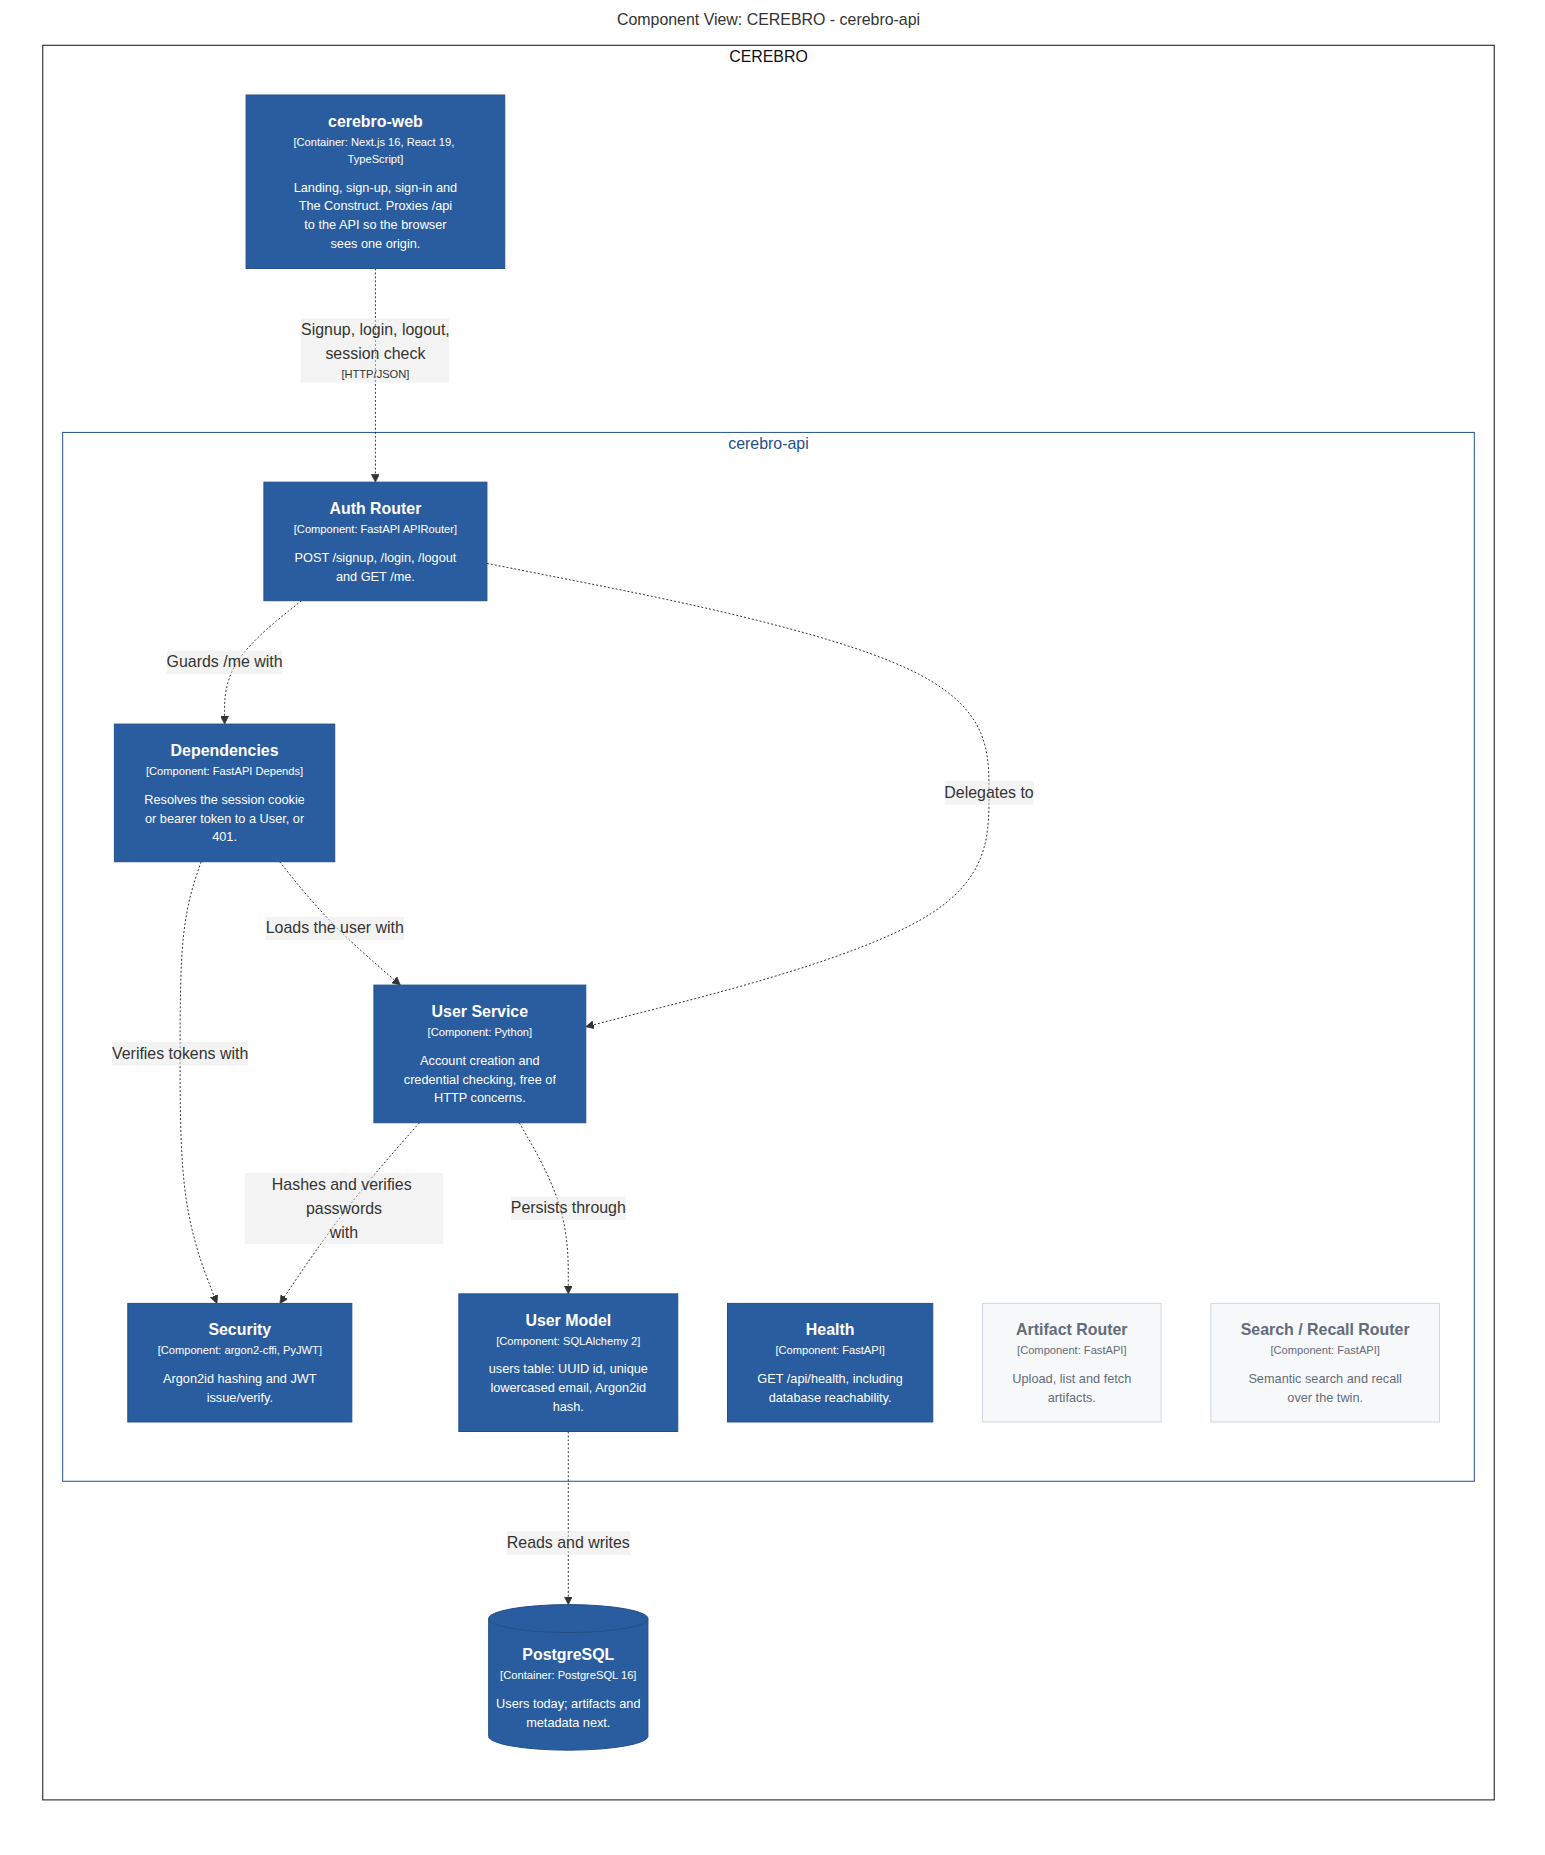
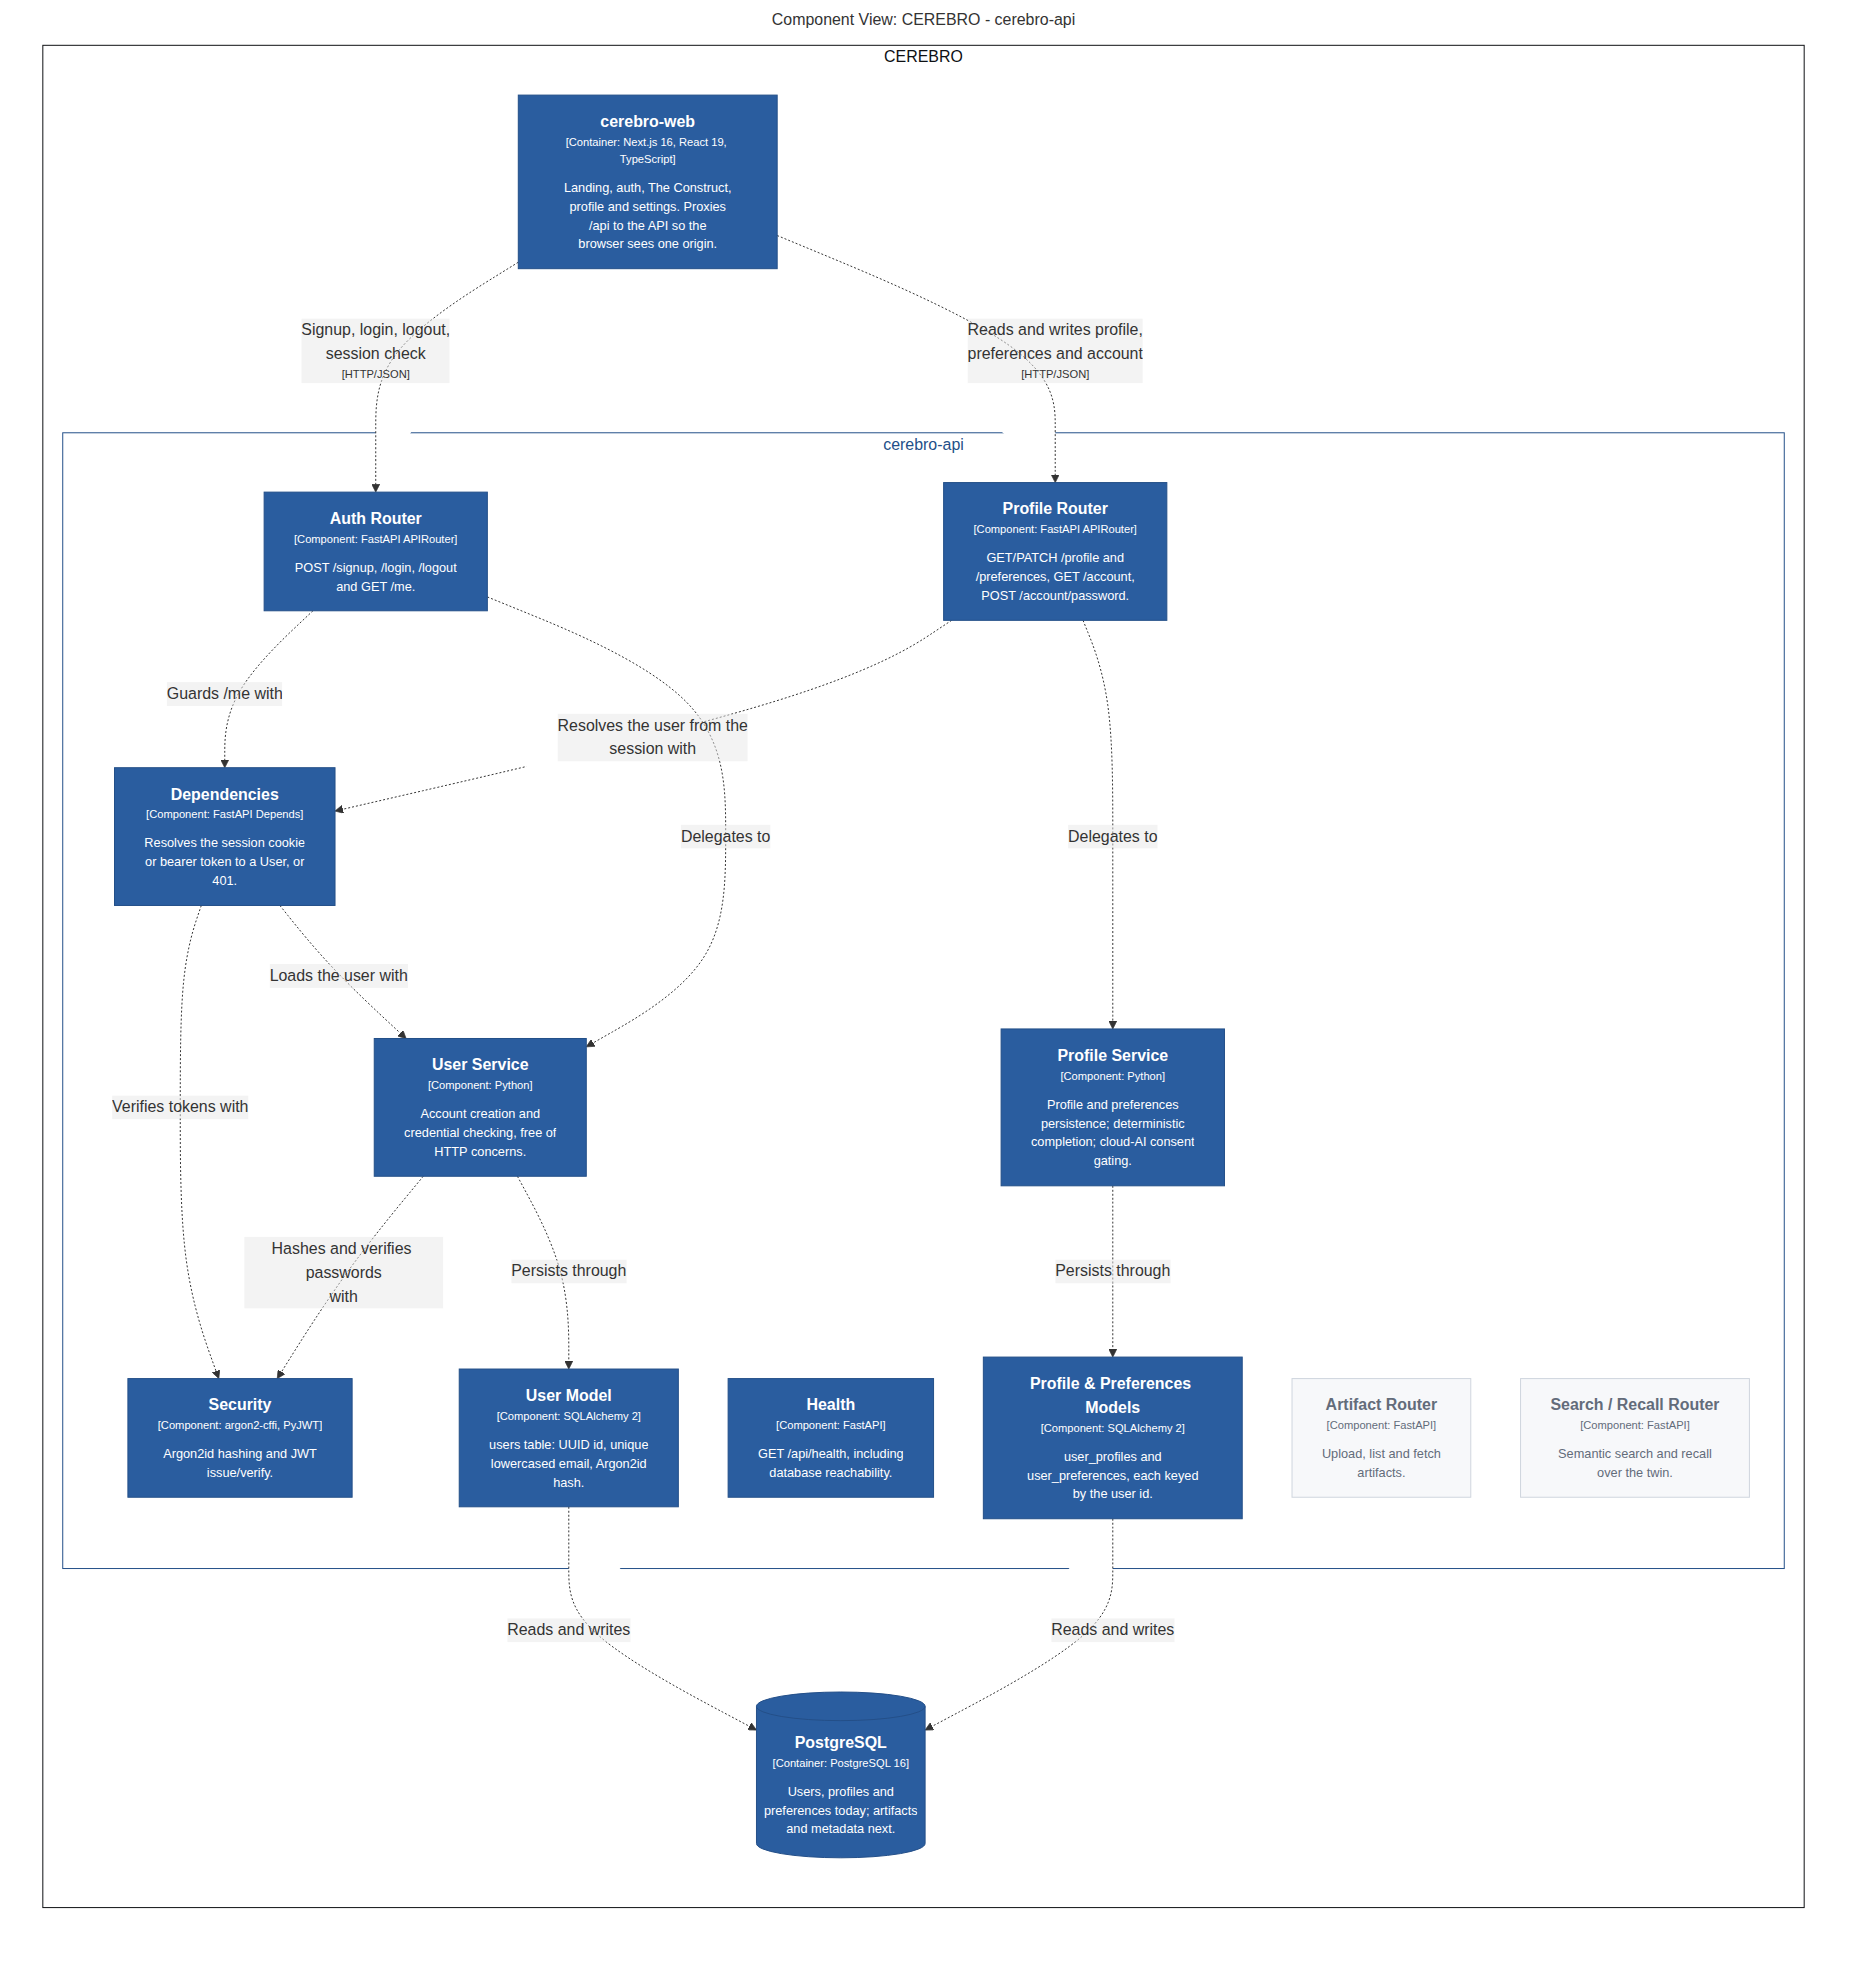
docs(architecture): bring the build state up to Phase 1.5
The C4 model described only Phase 1, so it understated what is built. Adds the
Profile Router, Profile Service and the profile/preferences models as Built
components, and updates the web, api and database descriptions. The planned
Artifact and Search routers stay pale, so the diagram still reads as progress
rather than an inventory. Validated with the Structurizr CLI and the four views
regenerated.

Corrects stale test counts in CURRENT-STATE (25/31 were the Phase 1 numbers;
the suites now stand at 55 backend and 39 end-to-end), and records that the
Phase 1.5 migration applied over an existing database of 318 users without
loss.

ROADMAP gains a Phase 1.5 section and work package 2 narrows to Artifact
Ingestion, since the profile half of it has shipped.

Claude-Session: https://claude.ai/code/session_0153JUQ1jKNgyaU31nau7zLS

diff --git a/docs/ROADMAP.md b/docs/ROADMAP.md
@@ -28,7 +28,20 @@ diagrams show built elements solid and planned ones pale.
 | Session                 | JWT in an httpOnly `SameSite=Lax` cookie             |
 | Protected routes        | Proxy pre-check plus authoritative server validation |
 | Design system           | Tokens → primitives → components → pages             |
-| Test suites             | 25 backend (real PostgreSQL) + 31 E2E (real browser) |
+| Test suites             | 55 backend (real PostgreSQL) + 39 E2E (real browser) |
+
+### Phase 1.5 — Profile, Preferences, Account
+
+| Item                     | Evidence                                              |
+| ------------------------ | ----------------------------------------------------- |
+| User Profile + editing   | Personal, professional, interests; chip inputs        |
+| Profile completion       | Derived on read from a fixed twelve-field list        |
+| Preferences              | Response style, suggestion toggles, private default   |
+| AI & Privacy             | Local default; cloud gated by explicit consent        |
+| Account settings         | Email, dates, password change; no hash or token leaks |
+| Dashboard context        | Greeting, current focus, completion, empty-state prompt |
+
+No model is called anywhere: this phase is configuration only.
 
 ### Containerisation
 
@@ -53,7 +66,7 @@ Ordered so each package depends only on the ones above it.
 
 | # | Work package                | Adds                                                        |
 | - | --------------------------- | ----------------------------------------------------------- |
-| 2 | User Profile + Ingestion    | Profile page; artifact upload; object store (MinIO); `artifacts` table; Library view |
+| 2 | Artifact Ingestion          | Artifact upload; object store (MinIO); `artifacts` table; Library view |
 | 3 | Processing pipeline         | `cerebro-worker`; event bus (Kafka); OCR, speech transcription, vision |
 | 4 | Semantic search             | Embeddings; vector store (Qdrant); Search view              |
 | 5 | Knowledge graph             | Entity and relationship extraction; graph store (Neo4j); Connect |
@@ -68,7 +81,7 @@ placeholders, so the shape of the product is visible without the functionality.
 
 1. Run `make up` on a machine with Docker and a cluster; report anything that
    fails at runtime. This is the only unproven part of the stack.
-2. Begin work package 2 — User Profile and Artifact Ingestion.
+2. Begin work package 2 — Artifact Ingestion.
 
 Completed: brand artwork supplied and in use; Kubernetes schema approved; UI
 approved; `v0.1-construct` tagged.

diff --git a/docs/CURRENT-STATE.md b/docs/CURRENT-STATE.md
@@ -42,12 +42,13 @@ Connect · Reason · Recall*) is applied throughout.
 | UI/UX       | APPROVED             |
 | Regression  | PASS                 |
 
-**Engineering** — Backend: 25 pytest tests green against a real PostgreSQL 16
+**Engineering** — Backend: 55 pytest tests green against a real PostgreSQL 16
 database. Frontend: `tsc --noEmit` clean, ESLint clean, production build clean.
 Kubernetes manifests parse as valid YAML.
 
-**Functional** — 31 Playwright end-to-end tests green in Chromium against the
-running stack (Next.js + FastAPI + PostgreSQL), covering work-package TESTs 1–9.
+**Functional** — 39 Playwright end-to-end tests green in Chromium against the
+running stack (Next.js + FastAPI + PostgreSQL), covering Phase 1 TESTs 1–9 and
+the Phase 1.5 profile, preferences, consent and isolation cases.
 
 **UI/UX** — Approved by the product owner on 18 September 2026. Also verified
 programmatically: WCAG 2.1 A/AA via axe-core on all four pages, no horizontal
@@ -70,8 +71,9 @@ contained only an empty `readme.md` at the start of this work package.
 | TEST 8 — Logout          | PASS   | Cookie cleared; protected route inaccessible          |
 | TEST 9 — UI              | PASS   | axe-core clean; responsive; loading and error states  |
 
-Database evidence at time of writing: 78 user rows, 78 Argon2id hashes,
-0 plaintext passwords.
+Database evidence at time of writing: 318 user rows, all Argon2id hashed,
+0 plaintext passwords. The Phase 1.5 migration applied over that existing data
+without loss.
 
 ## Infrastructure
 
